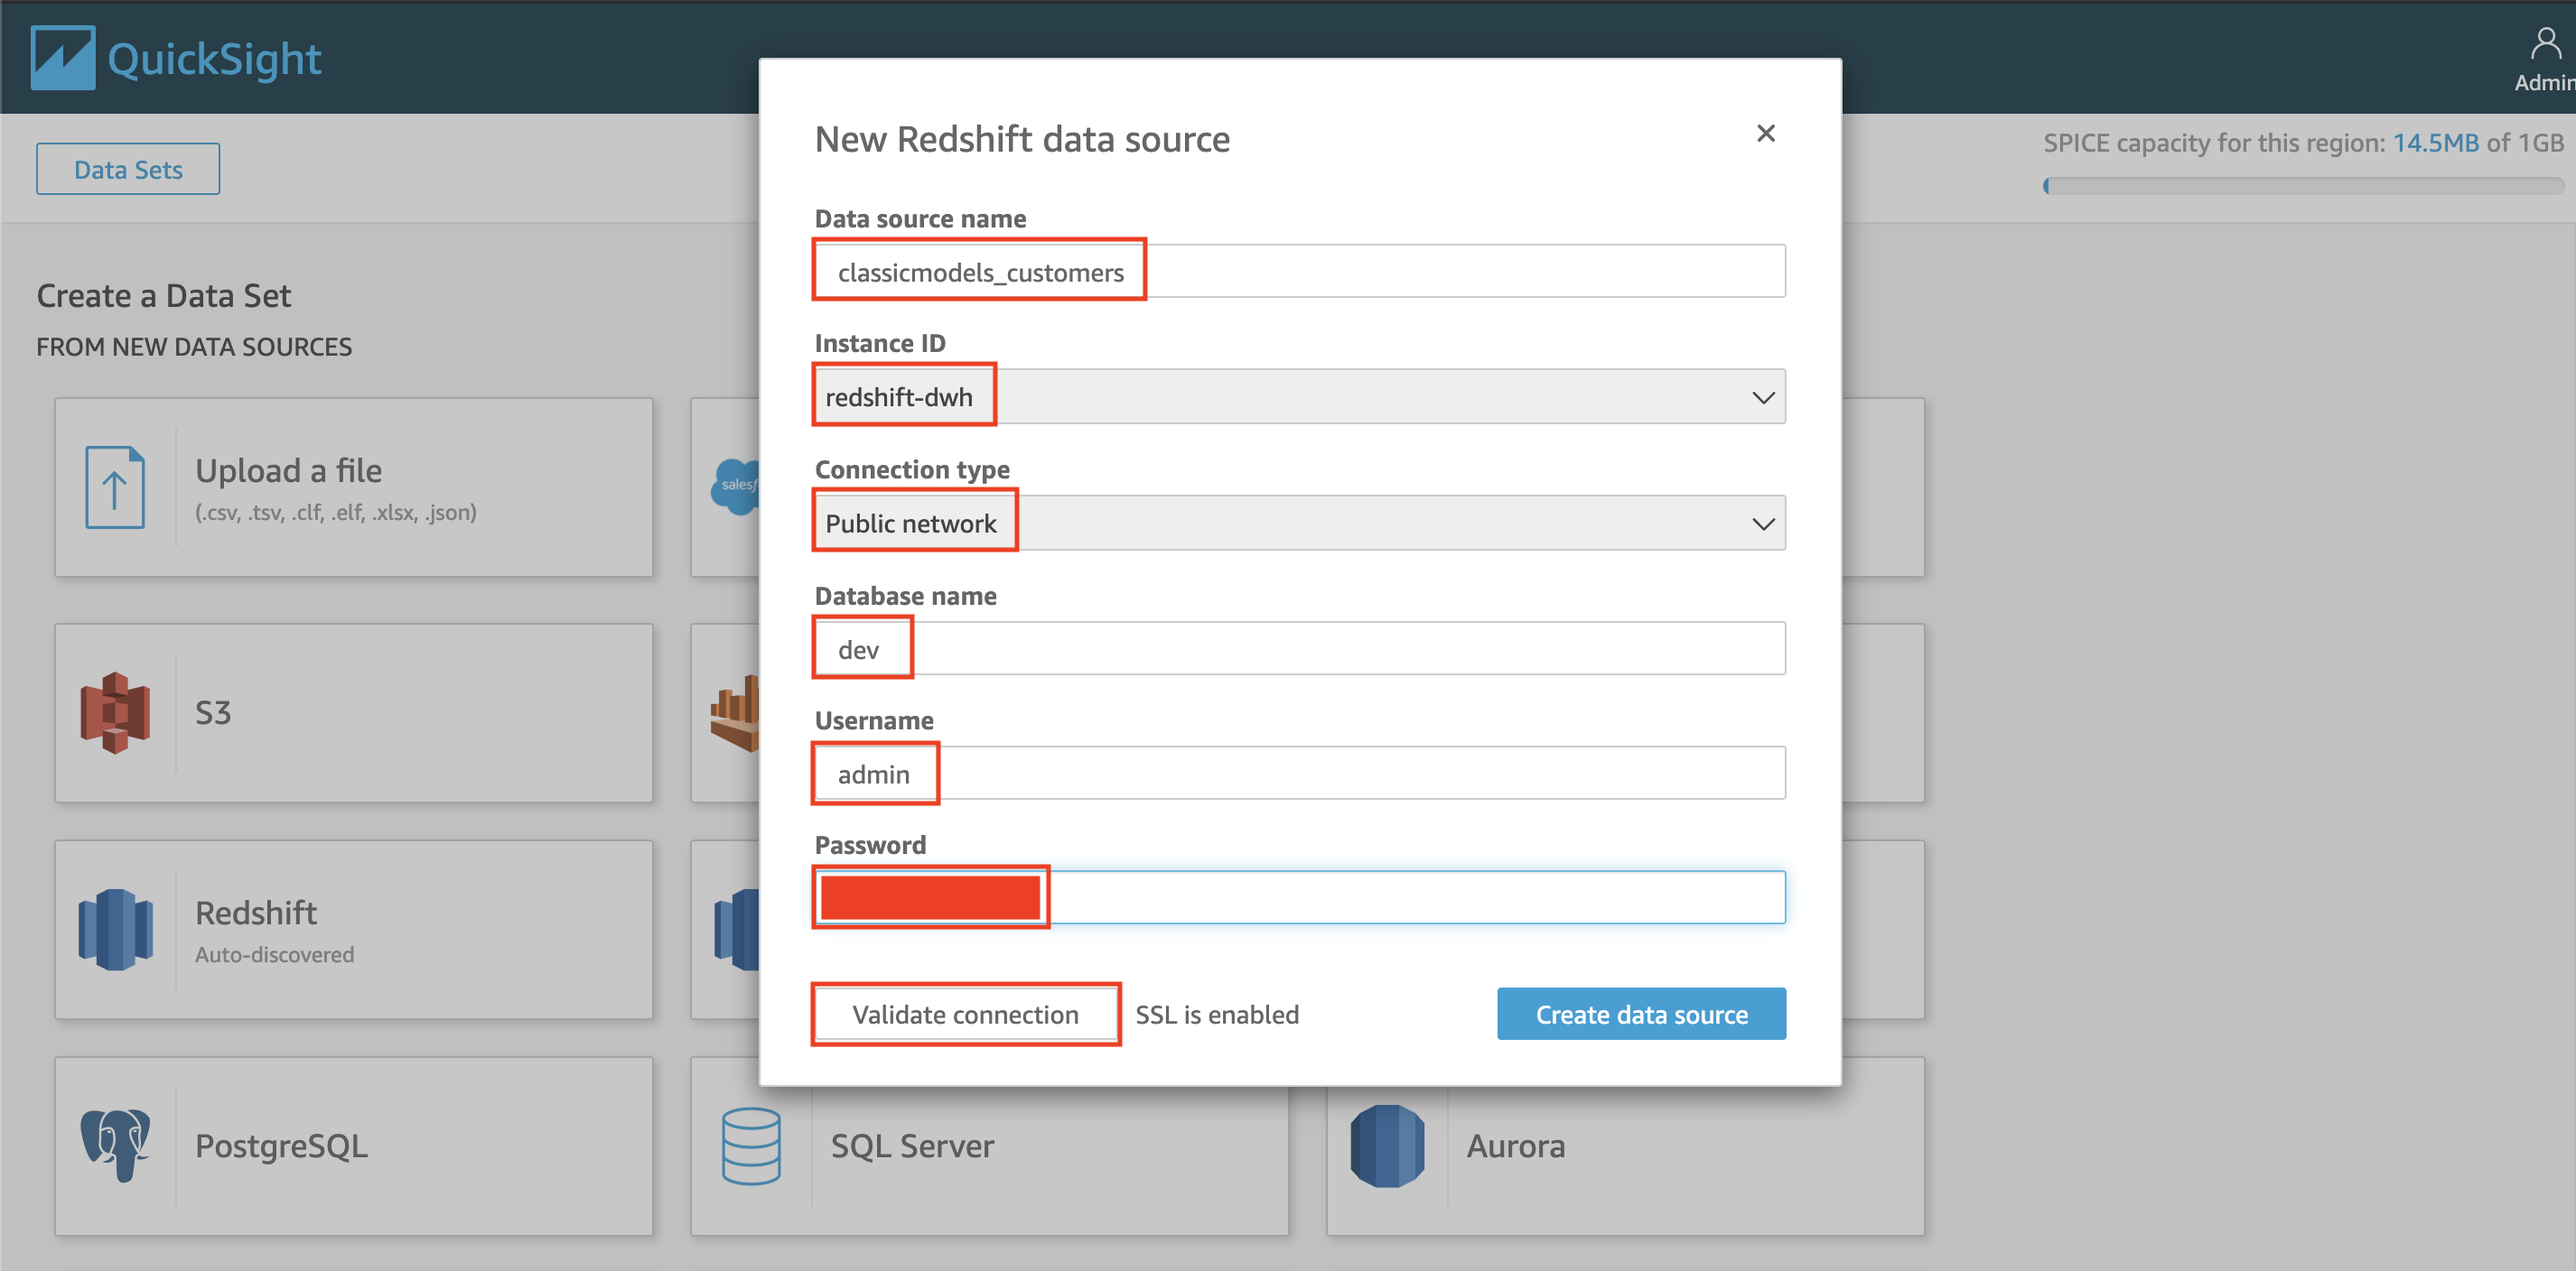
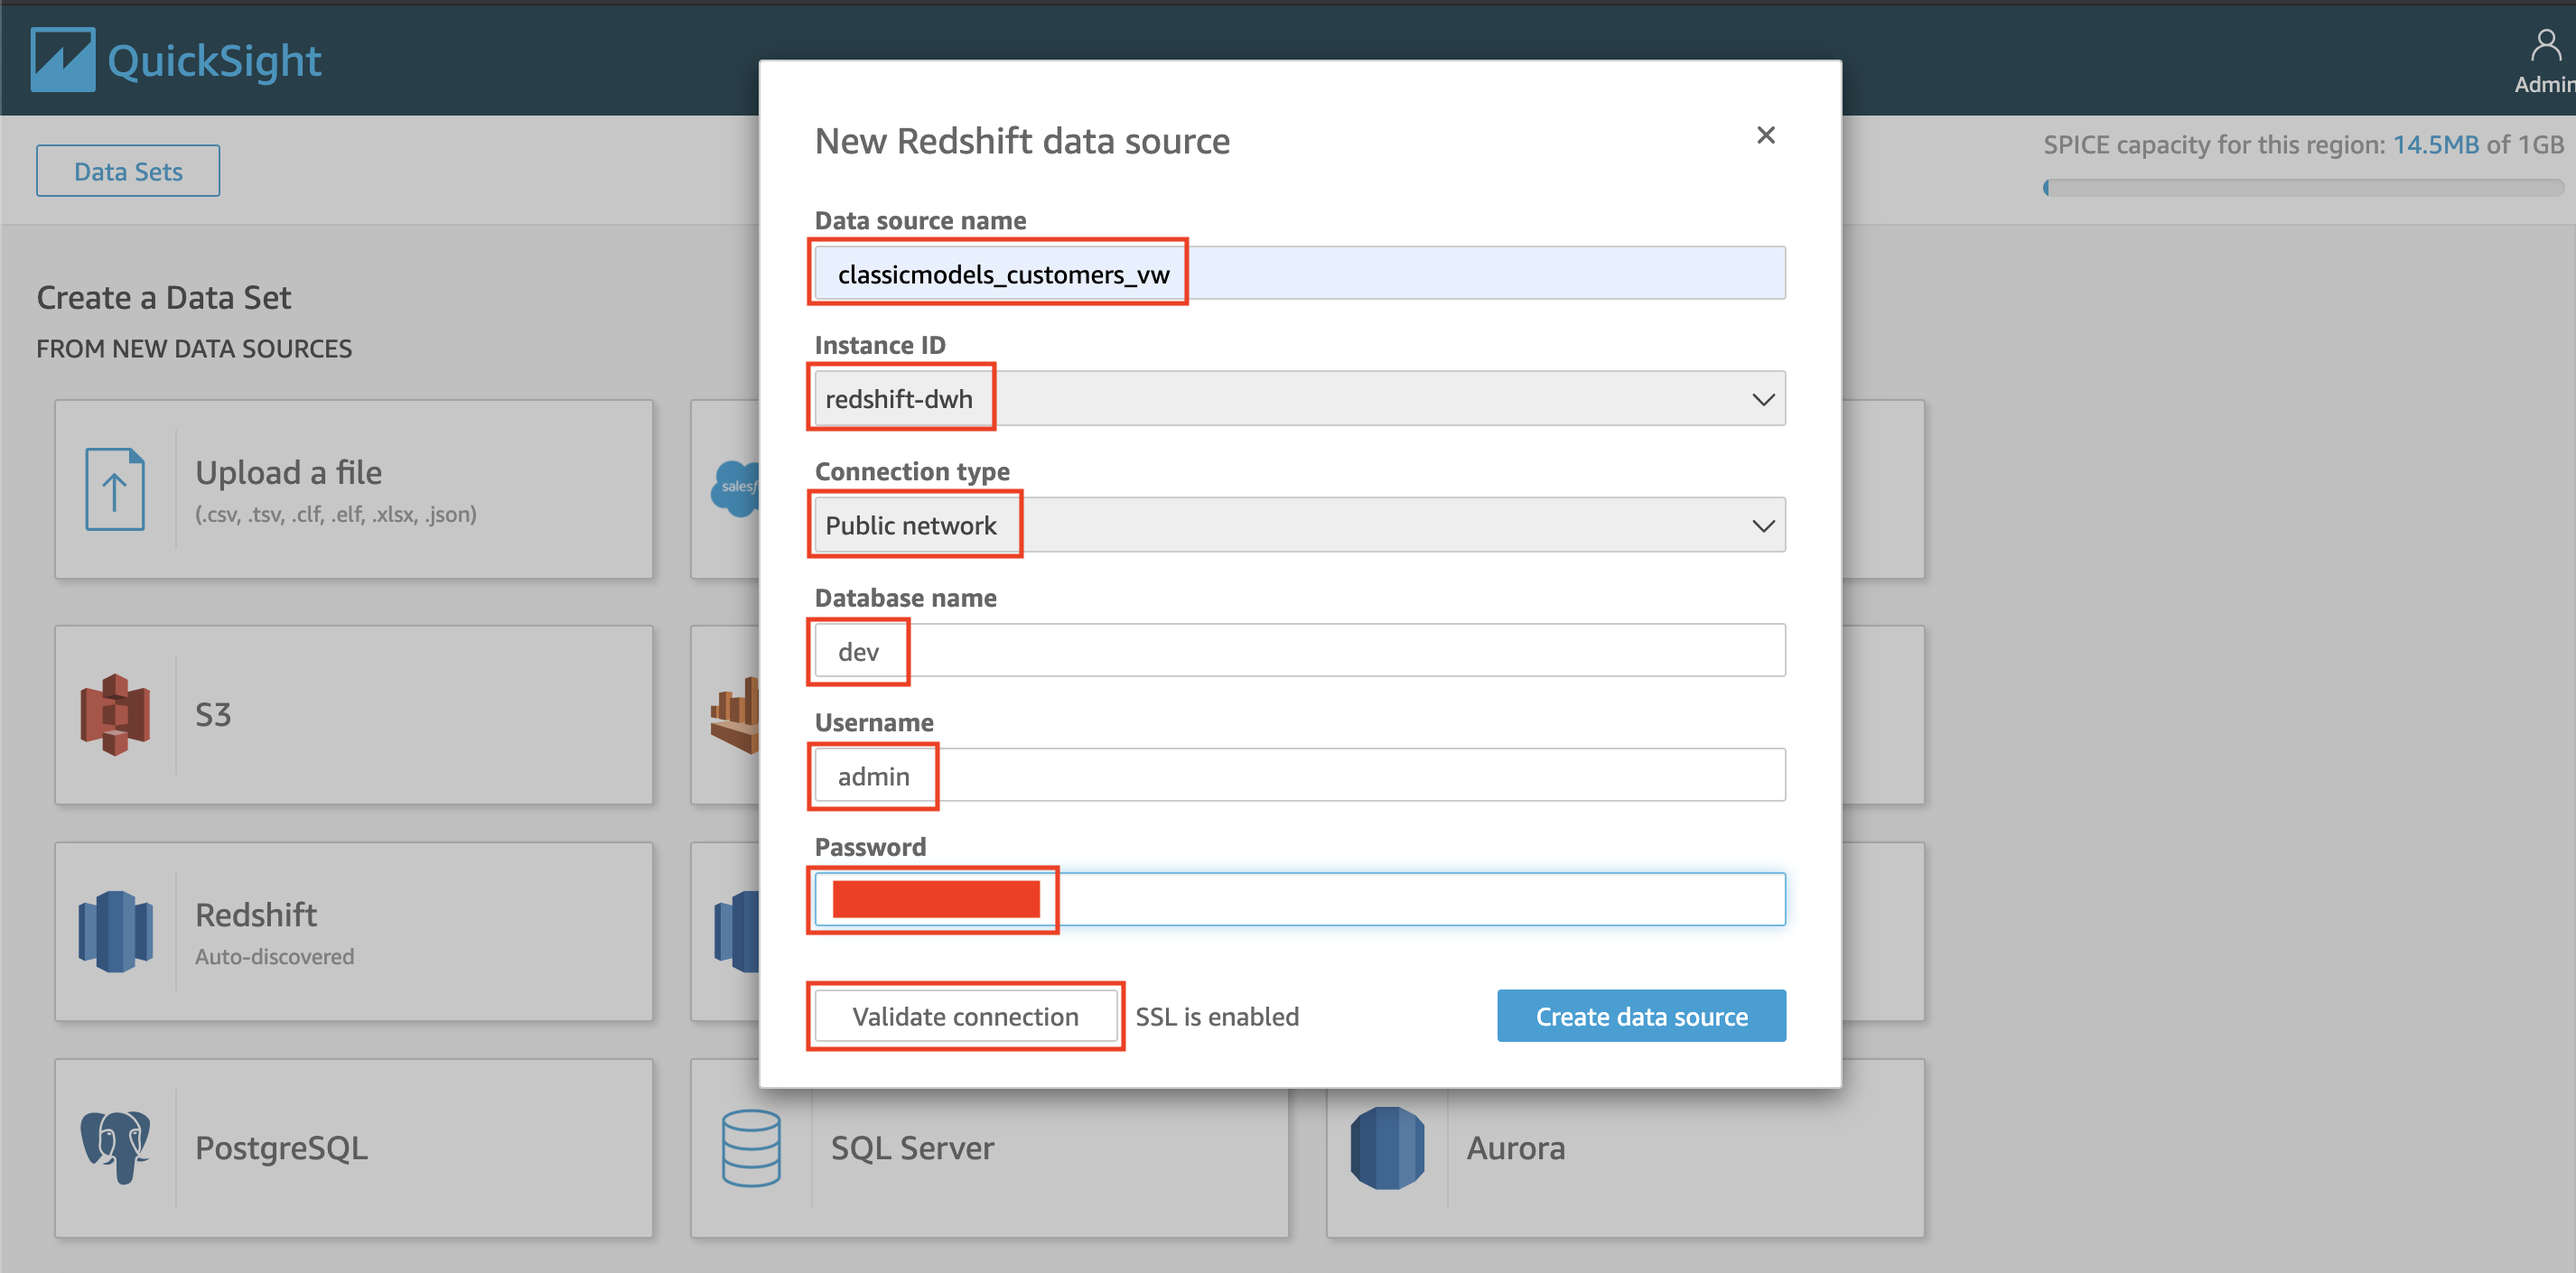
Finalie Visualization

diff --git a/docs/Visualization/Visualize.md b/docs/Visualization/Visualize.md
@@ -84,7 +84,7 @@ Now, your data warehouse can access the quicksight.
     ![](../../images/Visualization/Visualize/41.png)
 42. in data sets options, choose `Redshift Auto-discovered`
     ![](../../images/Visualization/Visualize/42.png)
-43. in data source name, type `classicmodels_customers`
+43. in data source name, type `classicmodels_customers_vw`
 44. in instance ID, choose `redshift-dwh`
 45. in connection type, choose `Public network`
 46. in database name, type `dev`
@@ -100,7 +100,7 @@ Once it's done, it will change to `Validated`.
 
 50. click `Create data source`
 51. in schema, choose `classicmodels`
-52. in tables, choose `customers`
+52. in tables, choose `customers_vw`
 53. click `Select`
     ![](../../images/Visualization/Visualize/53.png)
 54. in data set creation, choose `Import to SPICE for quicker analytics`
@@ -142,5 +142,26 @@ Now, we are going to try to filter the visual.
 
 the visual will change.
     ![](../../images/Visualization/Visualize/65-2.png)
+
+Now, we need to schedule a refresh dataset to keep update the data.
+
+66. click quicksight logo at the top left
+    ![](../../images/Visualization/Visualize/66.png)
+
+67. click `Datasets` at the left menu
+68. click `customers_vw` datasets
+    ![](../../images/Visualization/Visualize/68.png)
+69. in data sets descriptions, click `Schedule refresh`
+    ![](../../images/Visualization/Visualize/69.png)
+70. in Schedule refresh page, click `Create`
+    ![](../../images/Visualization/Visualize/70.png)
+71. in schedule, ensure that the date is by tomorrow's date
+72. in time, change it to 3:00 AM
+73. click `Create`
+    ![](../../images/Visualization/Visualize/73.png)
+74. once it's done, click `Cancel` or click the `X` button at the top
+    ![](../../images/Visualization/Visualize/74.png)
+75. click `X` again at the data sets description page
+    ![](../../images/Visualization/Visualize/75.png)
 
 [BACK TO WORKSHOP GUIDE](../../README.md)
